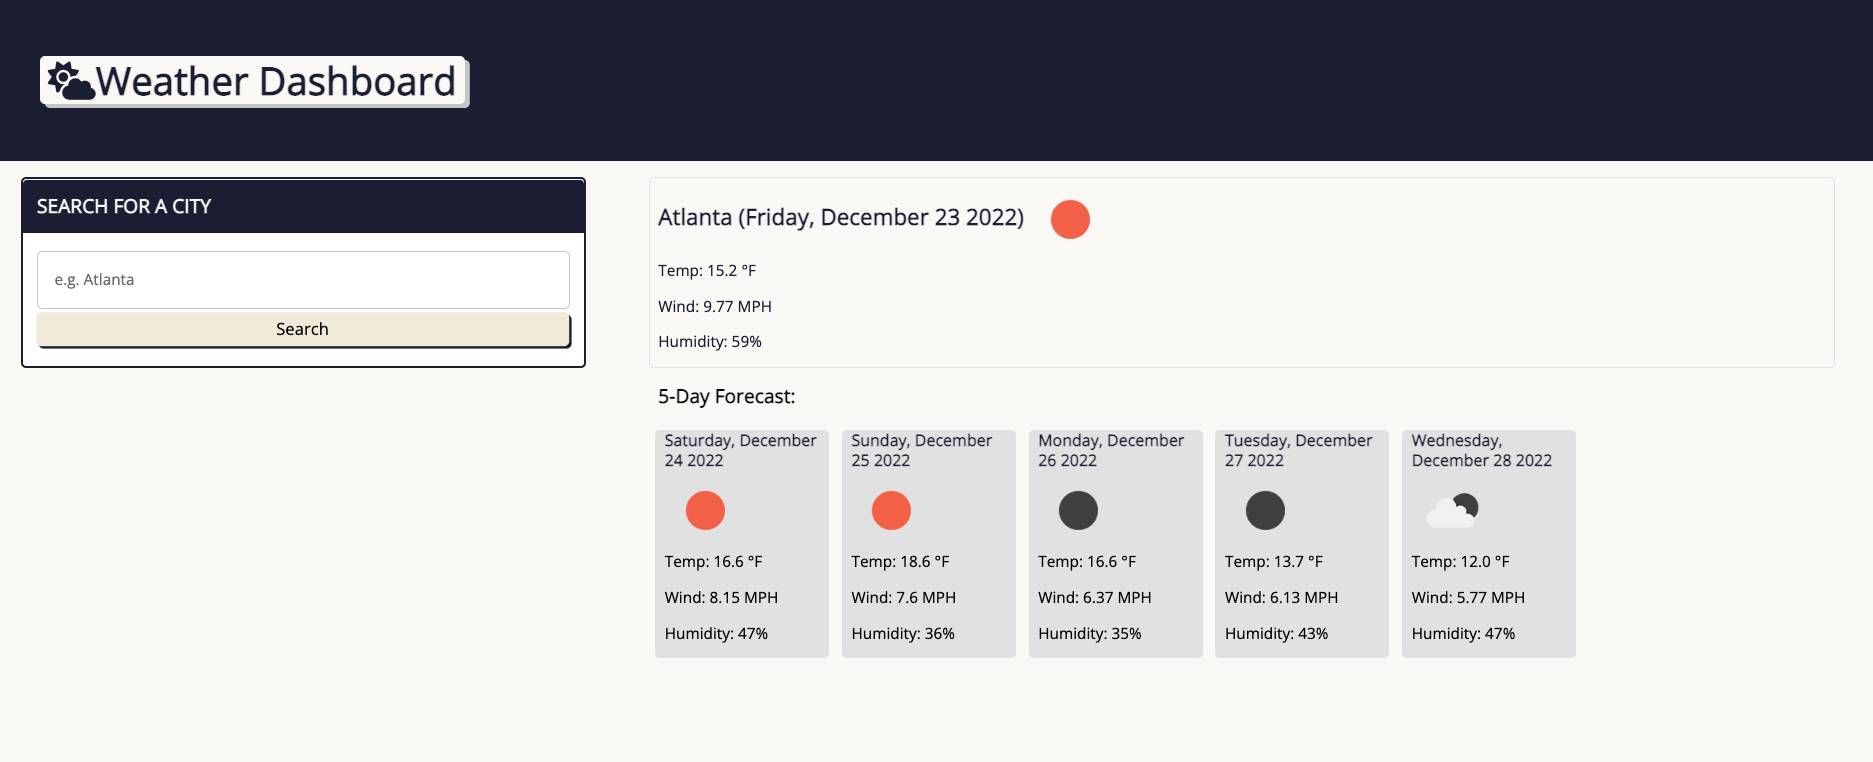
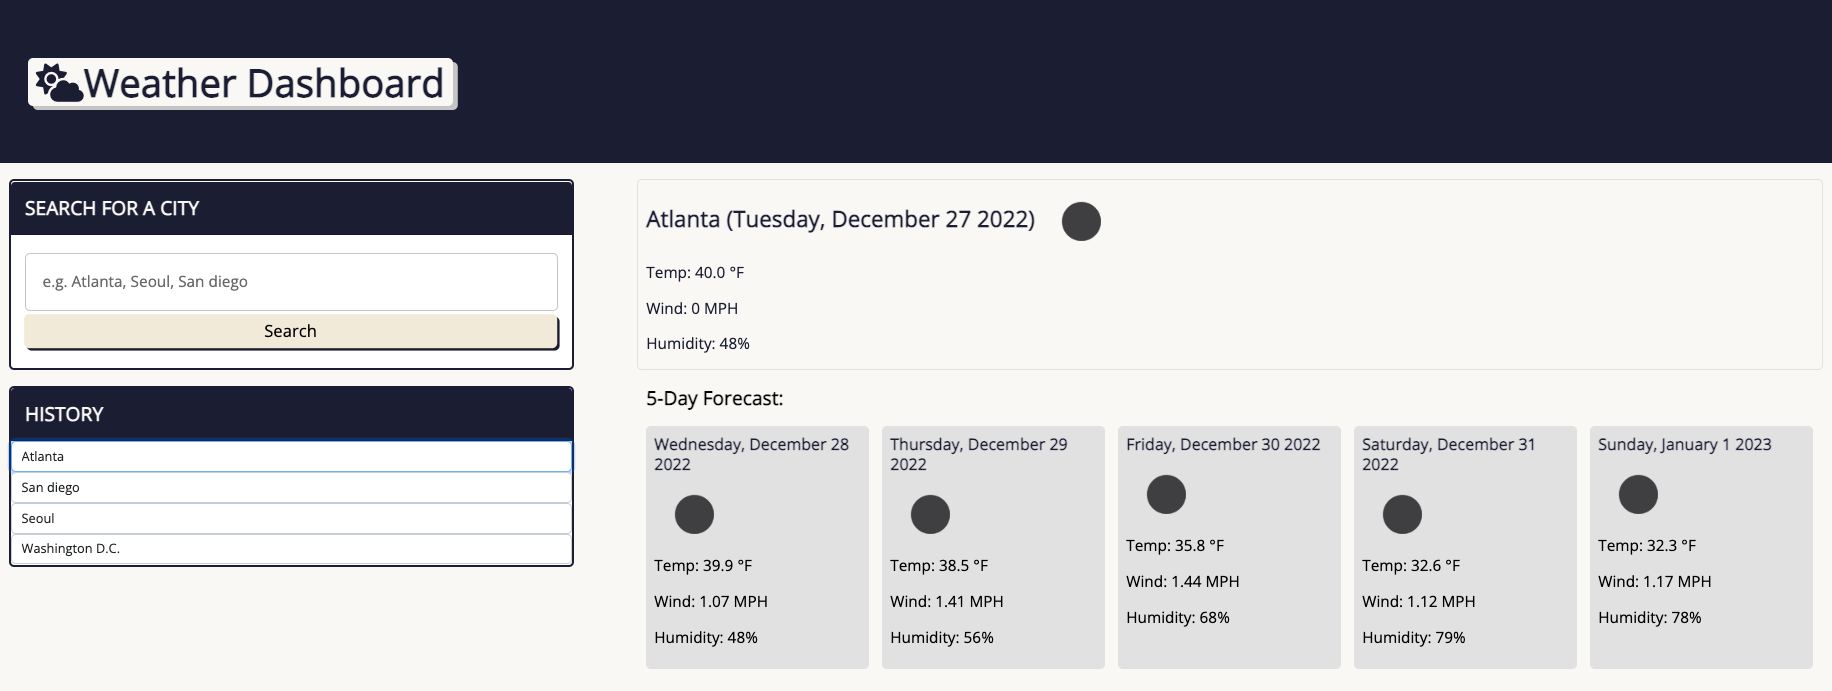
Modified README and upload screenshot

diff --git a/README.md b/README.md
@@ -2,9 +2,6 @@
 ## Description
 This is a web application that allows users to search for a city and get the current weather and a 5-day forecast. Previous search history is saved in the user's local storage.
 The web application is built using the OpenWeatherMap API and is designed to run in a browser. It features dynamically updated HTML and CSS and uses local storage to store persistent data. 
-
-The web application is still in progress - local storage.
-
 ## Usage
 To access the application, click the screenshot.
 [![weather-dashboard-screenshot](Assets/images/screenshot-weather-dashboard.png)](https://oliviasylee.github.io/weather-dashboard/)
